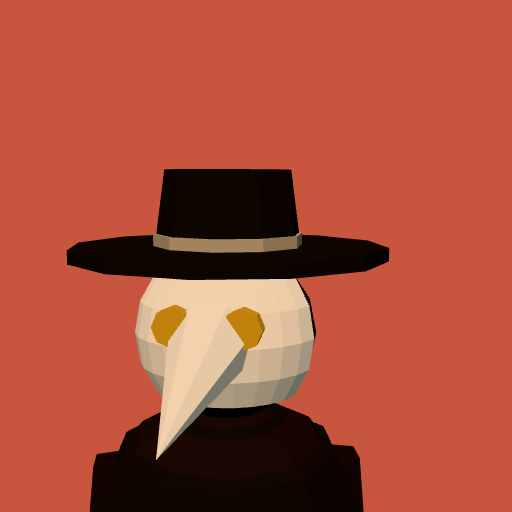
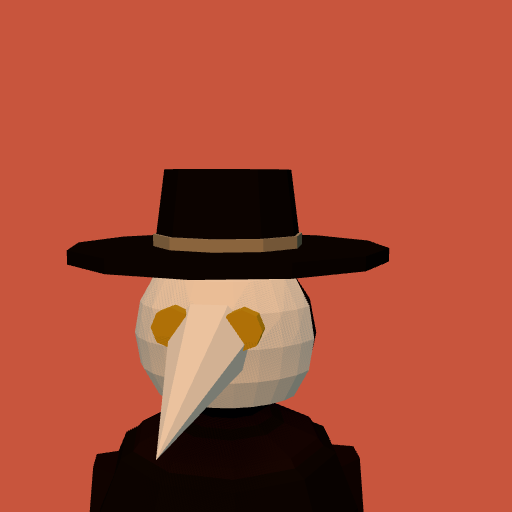
Capture the store art again in the new light

Changed region(s): [[0.4375, 0.5312, 0.625, 0.75], [0.2812, 0.4375, 0.5938, 0.5], [0.25, 0.5312, 0.375, 0.7188]]

diff --git a/src/poster.js b/src/poster.js
@@ -16,7 +16,7 @@ const SCENES = {
   // The cover: the plaza at golden hour, a troupe of Gatti in the sun, and one figure walking where no reveller would.
   thumb1: { plaza: 0, seed: 23, n: 9, t: 94, u: 0.4, eye: [7, 1.8, 6], at: [-5, 1.6, -1], fov: 40, title: true, odd: { tr: 5, x: 0.9, z: 4.2, h: 0.35 } },
   // The unmask: a fan snaps, a mask flies, confetti.
-  thumb2: { plaza: 0, seed: 9, n: 9, t: 33, u: 0.5, eye: [-3.6, 0.9, 5.8], at: [-0.4, 1.7, 2.2], fov: 46, unmask: true },
+  thumb2: { plaza: 0, seed: 9, n: 9, t: 33, u: 0.5, eye: [-2.9, 0.95, 5.9], at: [-0.5, 1.7, 2.2], fov: 44, unmask: true },
   // The Hush: midnight, fireworks over a crowd that has stopped to look up.
   thumb3: { plaza: 0, seed: 23, n: 9, t: 71, u: 1, hush: true, eye: [-1.5, 2.1, 12.5], at: [-7, 8.2, -10], fov: 60, shells: [[-14, 24, -16], [1, 22, -15], [-7, 31, -26], [9, 19, -9], [-23, 21, -6], [-4, 27, -9]] },
   // The Quay at golden hour: the sun between the columns, troupes on the waterfront, the lagoon at the edge.
@@ -143,8 +143,9 @@ function icon() {
     cam.aspect = 1;
     cam.updateProjectionMatrix();
     stage.sky.set(0.2, 1);
-    stage.sky.hemi.intensity = 1.6;
-    stage.sky.sun.intensity = 2.4;
+    stage.figures.setNight(0.2, { sunDir: new THREE.Vector3(0, 0, -1), sun: { color: new THREE.Color(0), intensity: 0 } }); // no rim light on the icon
+    stage.sky.hemi.intensity = 1.5;
+    stage.sky.sun.intensity = 1.7;
     stage.sky.sun.position.set(40, 60, 70);
     stage.R.renderer.render(stage.scene, cam);
     if (++frames === 6) window.__posterReady = true;
